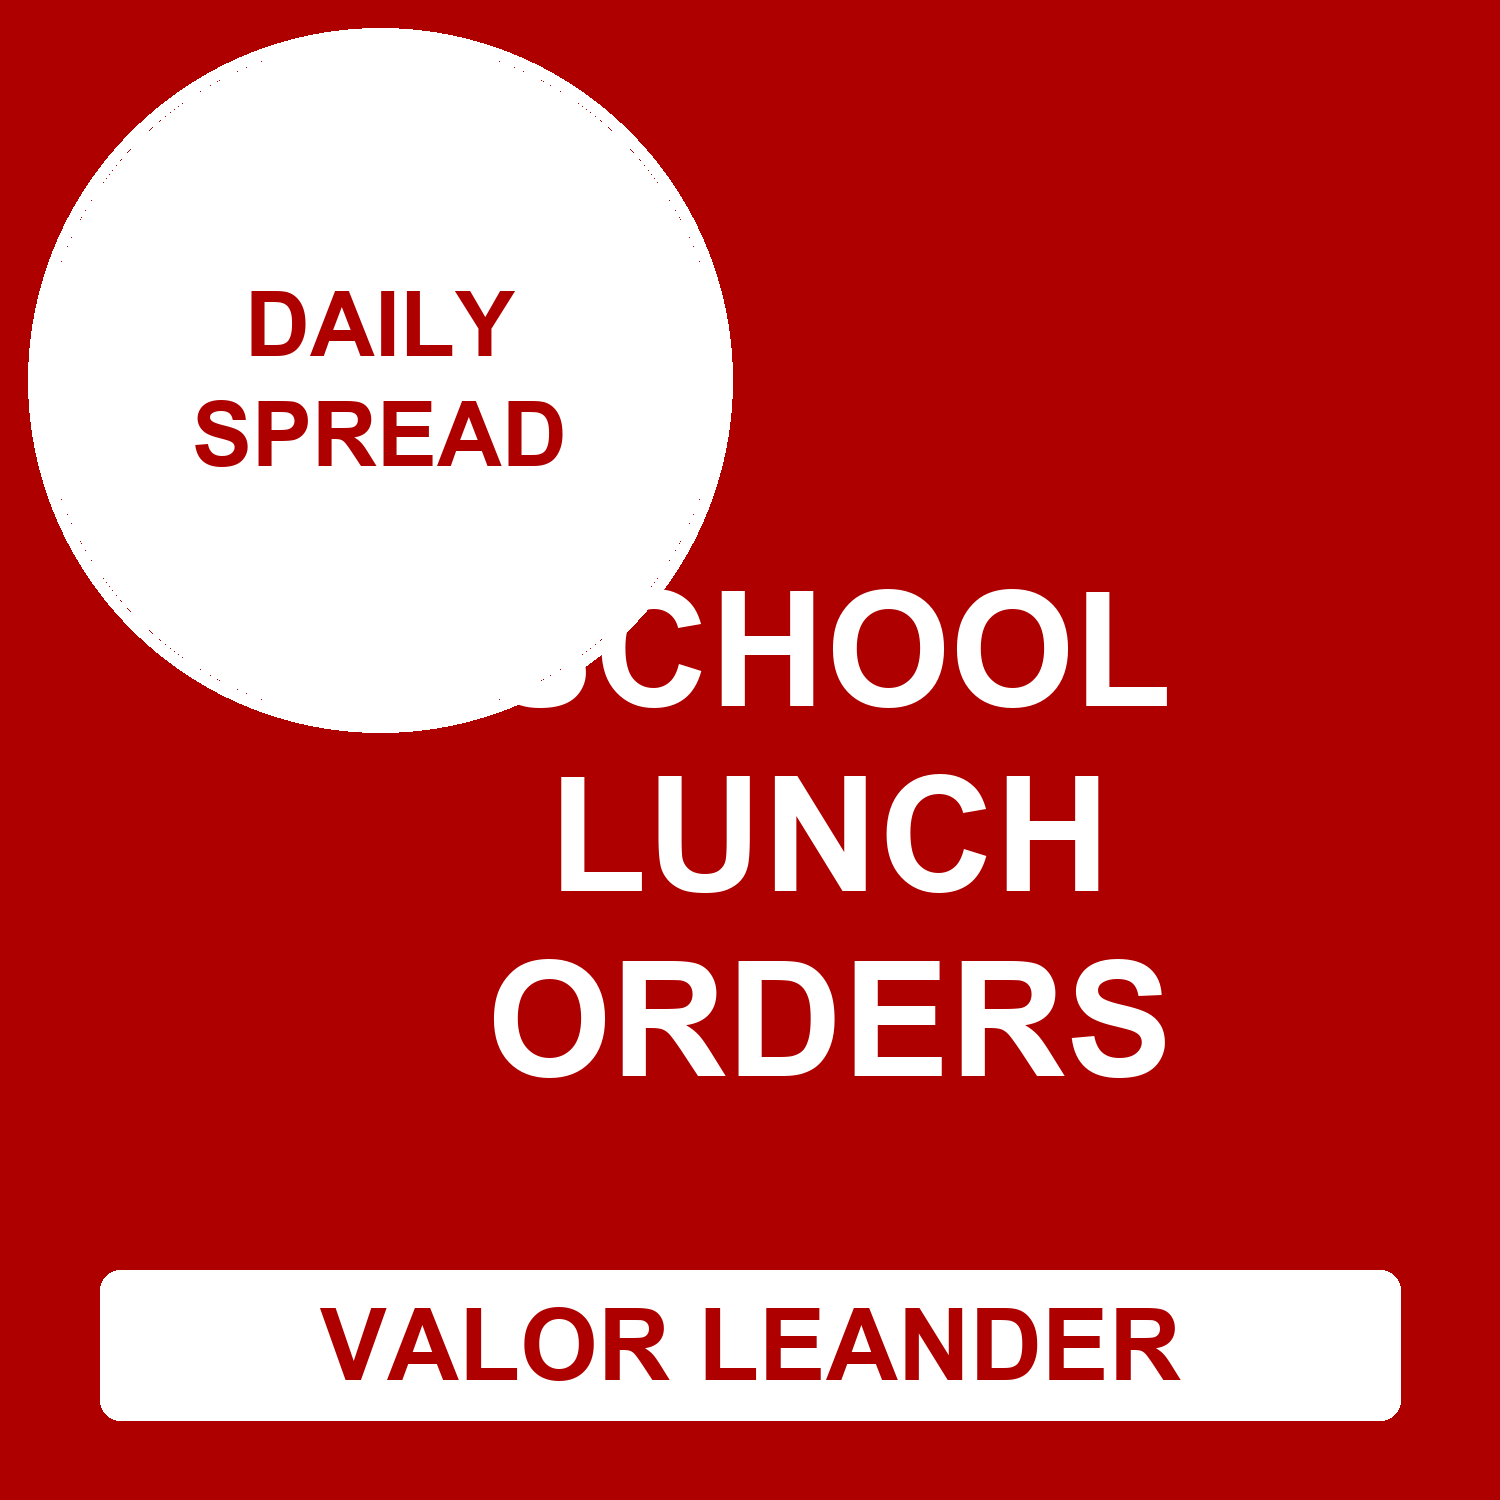
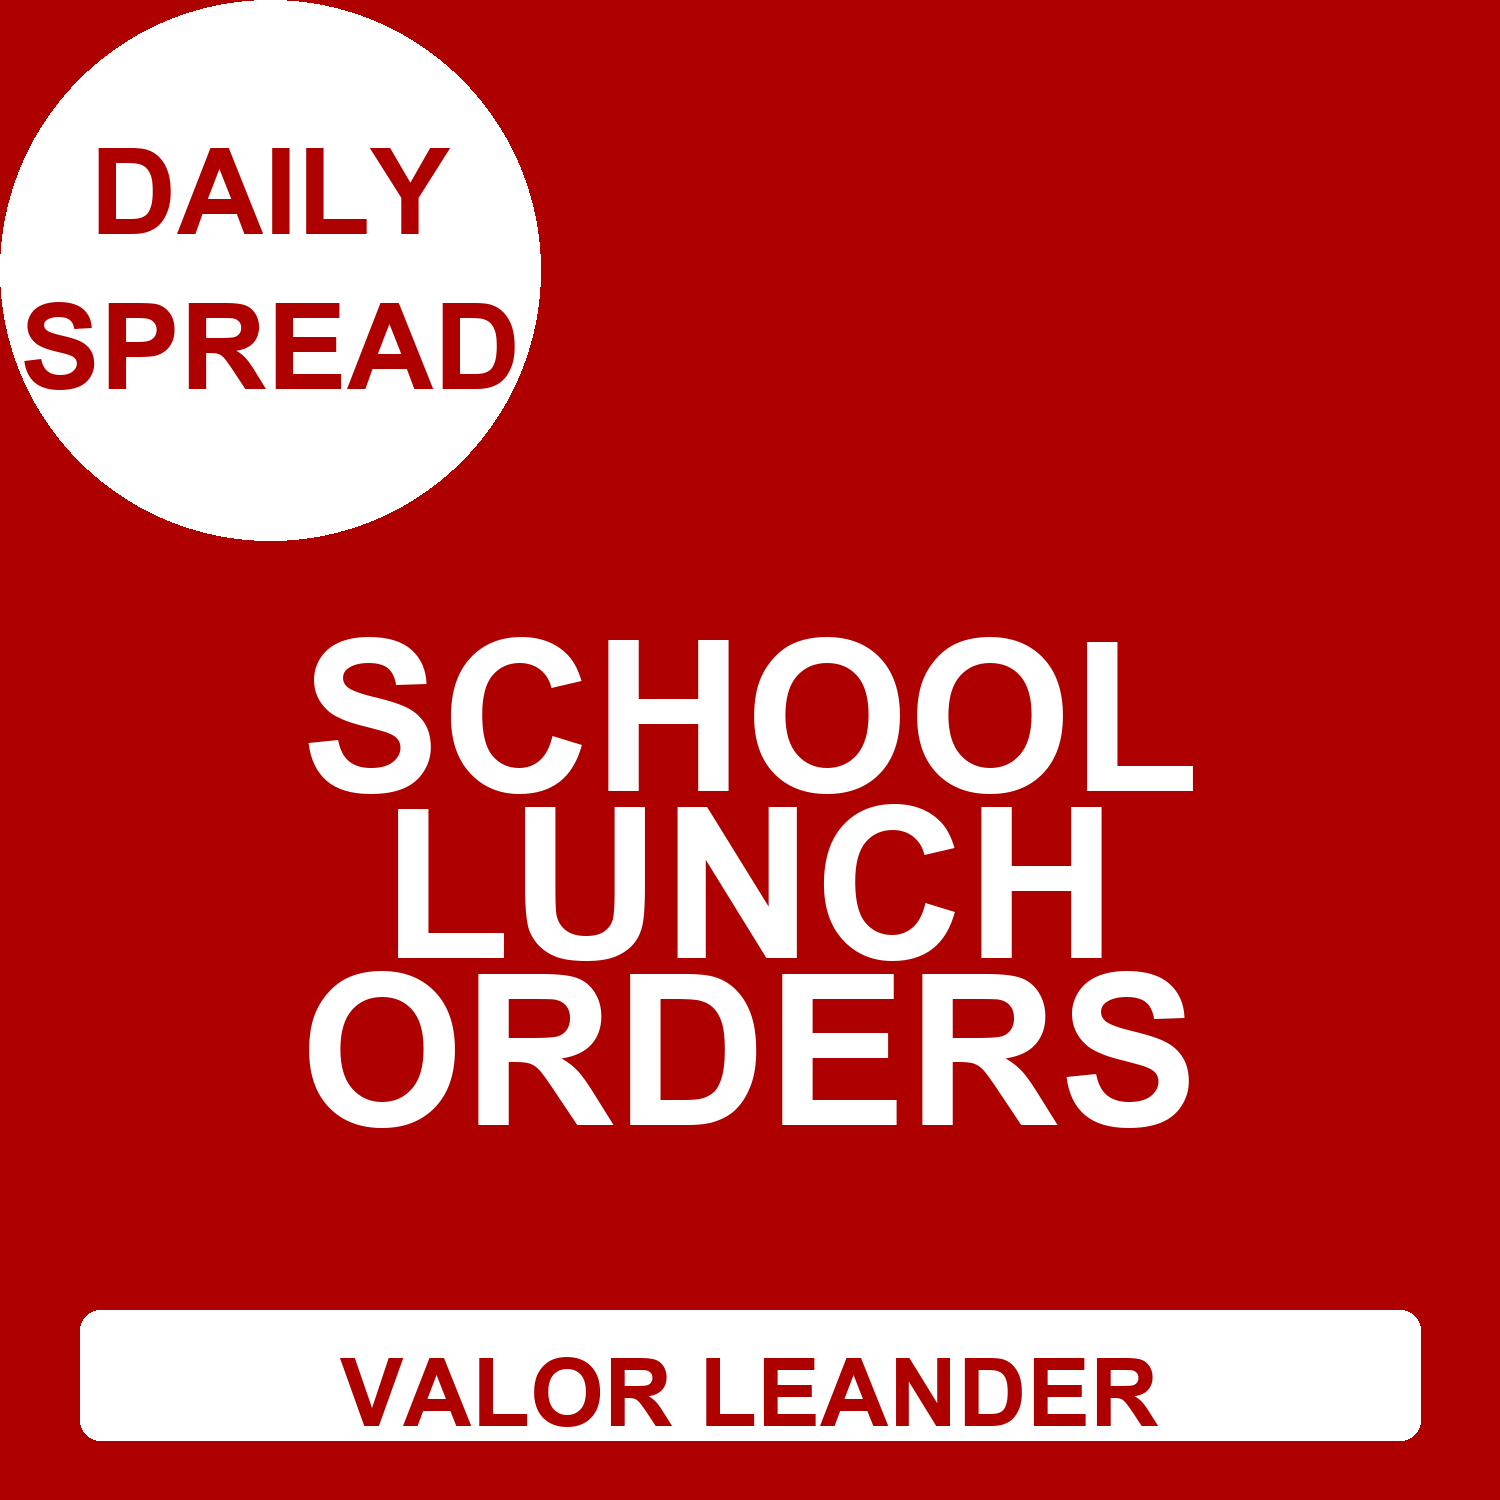
Fix tile text overlap and update lost-and-found signup link
- Rebuild lunch-order and bell-schedule tiles so text sits clearly below the circle logo
- Fix lost-and-found volunteer signup link to correct SignUpGenius URL

Changed region(s): [[0.0, 0.0, 0.7973, 0.7667], [0.0307, 0.828, 0.9507, 0.9813]]

diff --git a/lost-and-found.html b/lost-and-found.html
@@ -219,7 +219,7 @@
                     <p style="font-size: 2em; margin: 0 0 0.5em; line-height: 1;">🙋</p>
                     <h4 style="color: #333; margin: 0 0 0.3em; font-size: 1.05em; font-family: 'Libre Baskerville', Georgia, serif;">Volunteer to Help</h4>
                     <p style="font-size: 0.88em; color: #555; margin: 0 0 1.2em; line-height: 1.65;">Sign up to help scholars sort through lost and found items and reunite them with their belongings before the end of the school year.</p>
-                    <a href="https://www.signupgenius.com/go/10C0A4EADA92BA5FEC16-61372214-mayfaculty#/" target="_blank" rel="noopener" class="cta-button" style="margin-top: auto;">Sign Up</a>
+                    <a href="https://www.signupgenius.com/go/10C0A4EADA92BA5FEC16-63883374-lost#/" target="_blank" rel="noopener" class="cta-button" style="margin-top: auto;">Sign Up</a>
                 </div>
             </div>
 